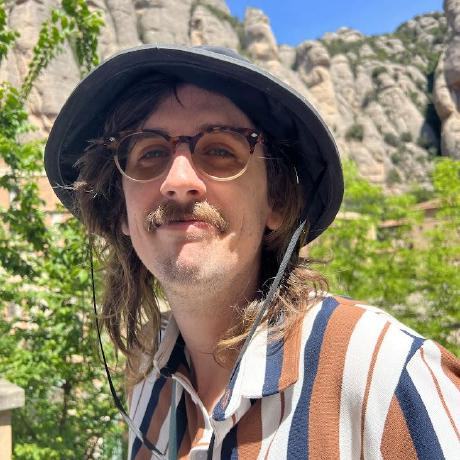
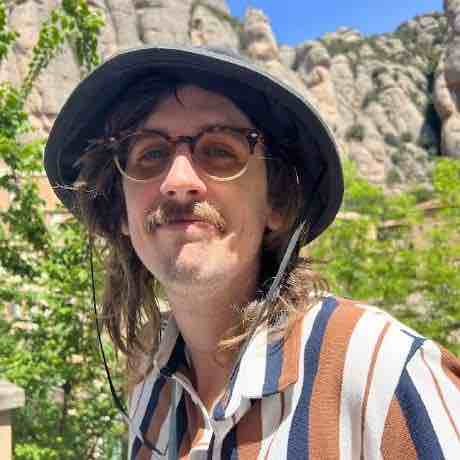
switch to smaller photo sizes

diff --git a/client/src/pages/landingPage/components/Team.jsx b/client/src/pages/landingPage/components/Team.jsx
@@ -3,8 +3,8 @@ import Player from './Player';
 import hazel from '../../../assets/headshots/hazel-headshot.jpg';
 import ian from '../../../assets/headshots/ian-headshot.jpg';
 import krystal from '../../../assets/headshots/krystal-headshot.jpg';
-import annie from '../../../assets/headshots/annie-headshot.png';
-import jeb from '../../../assets/headshots/jeb-headshot.png';
+import annie from '../../../assets/headshots/annie-headshot.jpg';
+import jeb from '../../../assets/headshots/jeb-headshot.jpg';
 const Team = () => {
   const team = [
     {

diff --git a/client/postcss.config.js b/client/postcss.config.js
@@ -1,0 +1,5 @@
+const postcssPresetEnv = require('postcss-preset-env');
+
+module.exports = {
+  plugins: [postcssPresetEnv({ stage: 1 })],
+};
